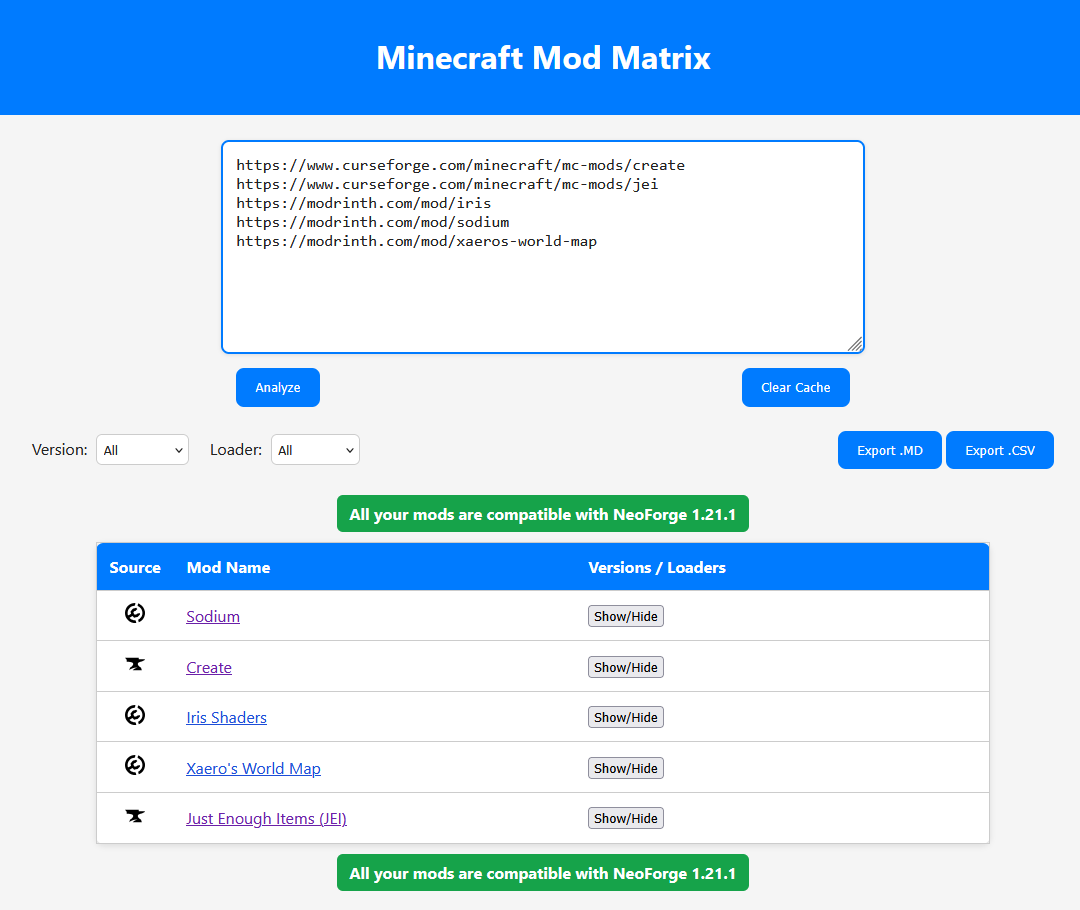
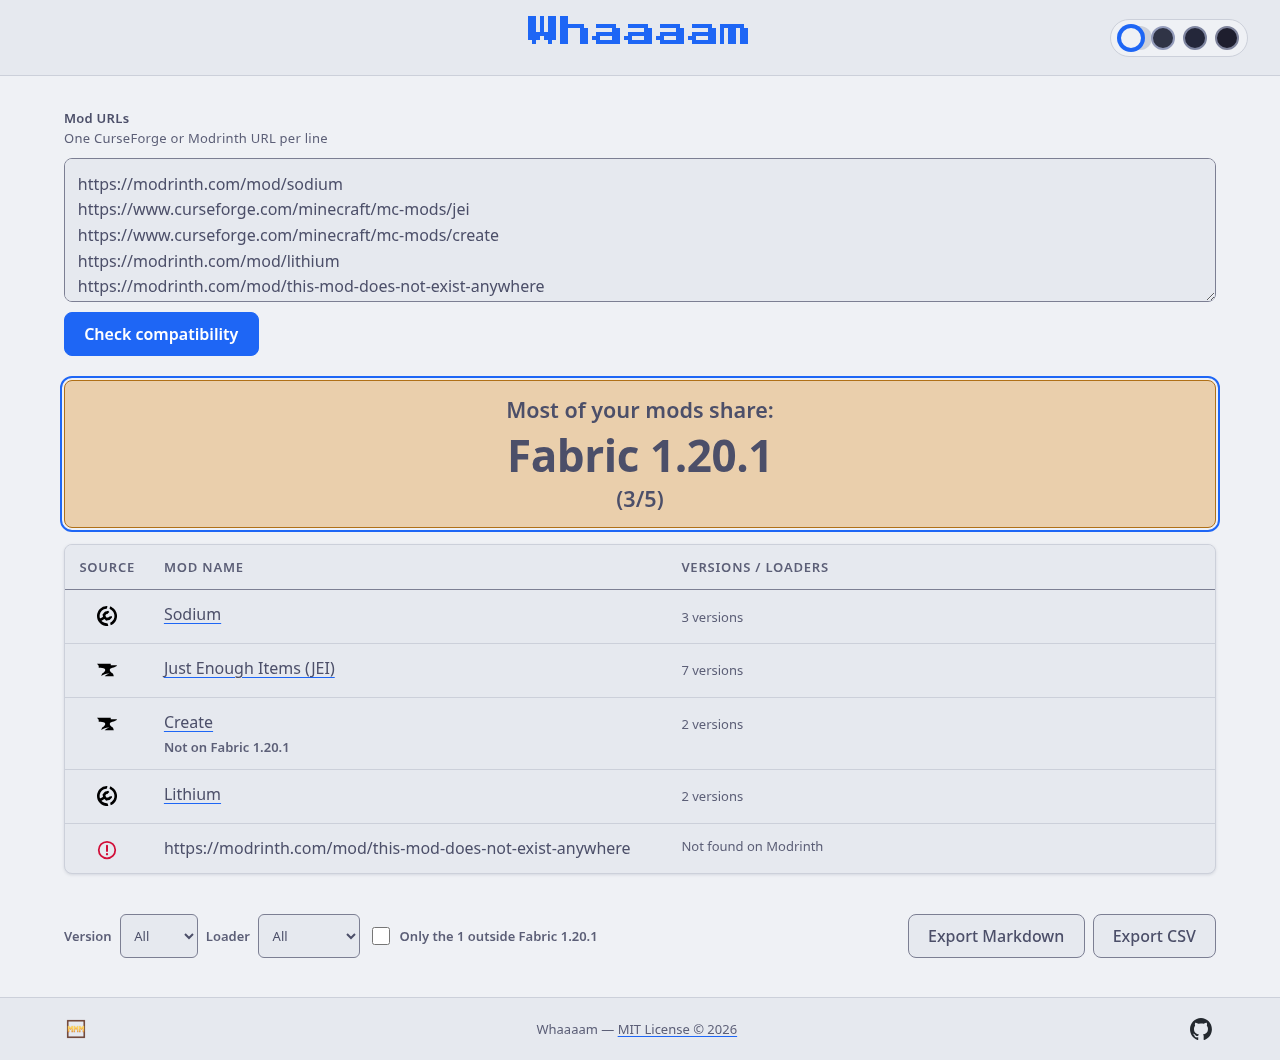
Made the Curseforge API key optional if only using Modrinth URLs

diff --git a/test_web.py b/test_web.py
@@ -14,10 +14,6 @@ import shutil
 import tempfile
 import time
 
-# curseforge.py reads CF_API_KEY at import time and raises without one. A dummy
-# is enough: no request is ever made.
-os.environ.setdefault("CF_API_KEY", "test-key-not-used")
-
 import modlist
 import providers
 import providers.http
@@ -195,6 +191,32 @@ def check_error_copy():
     print("error copy: internal detail logged not returned, provider copy preserved")
 
 
+def check_optional_api_key():
+    """CF_API_KEY is only needed to check a CurseForge mod. Without it the app
+    still imports, a Modrinth-only list still works, and a CurseForge URL comes
+    back as a row saying why rather than taking the whole app down."""
+    import subprocess
+    import sys
+    # Empty, not absent: python-dotenv never overrides a variable that is already
+    # set, so a developer's .env cannot slip a real key into the child.
+    env = dict(os.environ, CF_API_KEY="",
+               PYTHONPATH=os.path.dirname(os.path.abspath(__file__)))
+    started = subprocess.run([sys.executable, "-c", "import web"],
+                             env=env, cwd=tempfile.gettempdir(), capture_output=True, text=True)
+    assert started.returncode == 0, f"app did not start without a key:\n{started.stderr}"
+
+    saved = os.environ.pop("CF_API_KEY", None)
+    try:
+        row = modlist.fetch_mod_info("https://www.curseforge.com/minecraft/mc-mods/jei")
+    finally:
+        if saved is not None:
+            os.environ["CF_API_KEY"] = saved
+    # _no_network would surface as the generic sentence; this proves the
+    # missing key was caught before any request was attempted.
+    assert "no CurseForge API key" in row["error"], row
+    print("api key: optional at startup, required only for a CurseForge mod")
+
+
 def check_slug_validation():
     """A slug that is not a slug never reaches the URL builder."""
     from providers.modrinth import slug_from_url
@@ -316,6 +338,7 @@ if __name__ == "__main__":
     check_host_allowlist()
     check_canonical_url()
     check_error_copy()
+    check_optional_api_key()
     check_slug_validation()
     check_routes_and_headers()
     check_deadline()

diff --git a/providers/curseforge.py b/providers/curseforge.py
@@ -16,15 +16,23 @@ API_BASE = "https://api.curseforge.com/v1"
 GAME_ID = 432
 CACHE_TTL = timedelta(hours=24)
 
-API_KEY = os.getenv("CF_API_KEY")
-if not API_KEY:
-    raise EnvironmentError("Missing CF_API_KEY in environment")
-
-HEADERS = {"Accept": "application/json", "x-api-key": API_KEY}
+# Read per request, not at import: a Modrinth-only list must work on a server
+# with no CurseForge key. It used to raise EnvironmentError here and the whole
+# app refused to start.
+NO_KEY = ("This server has no CurseForge API key (CF_API_KEY), so CurseForge mods "
+          "cannot be checked; Modrinth links still work")
 
 
 def safe_request(url, params=None, retries=3, delay=1, timeout=10):
-    return http_request("CurseForge", url, headers=HEADERS, params=params,
+    # Every CurseForge call goes through here, so this is the one place the key
+    # is required. ProviderError: the row says why, and nothing is sent upstream.
+    # That holds because get_mod_data's search is uncached and runs first; put a
+    # cache in front of it and keyless checks would half-succeed from disk.
+    key = (os.getenv("CF_API_KEY") or "").strip()
+    if not key:
+        raise ProviderError(NO_KEY)
+    headers = {"Accept": "application/json", "x-api-key": key}
+    return http_request("CurseForge", url, headers=headers, params=params,
                         retries=retries, delay=delay, timeout=timeout)
 
 

diff --git a/test_compat.py b/test_compat.py
@@ -247,11 +247,7 @@ def check_contrast():
 def check_curseforge_pairs():
     """A file we cannot attribute contributes nothing — it must never become
     a loader called "Unknown", which once shipped in the verdict."""
-    try:
-        from providers.curseforge import index_pairs, loaders_for_file
-    except Exception as exc:  # needs CF_API_KEY at import time
-        print(f"curseforge helpers: skipped ({type(exc).__name__})")
-        return
+    from providers.curseforge import index_pairs, loaders_for_file
 
     assert loaders_for_file({"gameVersions": ["1.20.1", "Fabric"]}) == {"Fabric"}
     assert loaders_for_file({"gameVersions": ["1.20.1", "NeoForge"]}) == {"NeoForge"}

diff --git a/README.md b/README.md
@@ -2,35 +2,33 @@
 
 **Whaaaam** tells you what Minecraft version and mod loader all your mods have in common.
 
-Paste your CurseForge and Modrinth mod URLs, and instantly see which Minecraft versions and loaders (Forge, Fabric, NeoForge, Quilt) are compatible across your entire mod list.
+Paste your CurseForge and Modrinth mod URLs, and see which Minecraft versions and loaders (Forge, Fabric, NeoForge, Quilt) your entire mod list agrees on — or, when it doesn't fully agree, what most of it shares and which mods fall outside.
 
+![Whaaaam checking a five-mod list, shown across the four themes](docs/screenshot_themes.png)
 
 ## Features
 
-- **Multi-Source Support** - Works with both CurseForge and Modrinth URLs
-- **Compatibility Analysis** - Instantly finds common versions/loaders across all mods
-- **Dual Interface** - Use via CLI or web browser
-- **Smart Filtering** - Filter results by Minecraft version or mod loader
+- **Multi-Source Support** - Works with both CurseForge and Modrinth URLs, mixed freely
+- **Compatibility Analysis** - Finds the versions and loaders common to the whole list, or the largest consensus with a count (`8/10`)
+- **Nothing Silently Dropped** - A mod that could not be checked stays in the results with the reason, and still counts
+- **Dual Interface** - Use via CLI or web browser; both give the same answer in the same words
+- **Smart Filtering** - Filter results by Minecraft version or mod loader without changing the verdict
 - **Export Options** - Download your mod list as Markdown or CSV
-- **Beautiful Themes** - 4 Catppuccin themes (Latte, Frappé, Macchiato, Mocha) with smooth transitions
-- **Caching** - Fast repeated lookups with local cache
+- **Four Themes** - The Catppuccin palettes: Latte, Frappé, Macchiato, Mocha
+- **Caching** - Version data is cached on disk for 24 hours, so a re-check is fast
 
 ## Quick Start
 
 ### Prerequisites
 
-- Curl and Git
+- Git
+- Python 3.10 or newer, with `venv` and `pip`
 
 ```bash
-apt install -y git curl
+apt install -y git python3 python3-venv python3-pip
 ```
 
-- Python 3.8+
-- pip
-
-```bash
-apt install -y python3 python3-venv python3-pip build-essential
-```
+- A CurseForge API key, if you check CurseForge mods — request one at [console.curseforge.com](https://console.curseforge.com/). Modrinth needs none.
 
 ### Installation
 
@@ -39,12 +37,20 @@ apt install -y python3 python3-venv python3-pip build-essential
 git clone https://github.com/Lord-ZuzurNC/Whaaaam.git
 cd Whaaaam
 
-# Install Python dependencies
+# Create a virtual environment and install the dependencies
+python3 -m venv .venv
+source .venv/bin/activate
 pip install --upgrade pip
 pip install -r requirements.txt
+
+# Give it your CurseForge API key (skip this for Modrinth-only lists)
+echo "CF_API_KEY=your-key-here" > .env
 ```
 
-There is no frontend build step — `static/styles.css` is served as authored.
+Without a key the app still runs: Modrinth mods check normally and each
+CurseForge URL is listed as could not be checked, with the reason — see
+[Configuration](#configuration). There is no frontend build step:
+`static/styles.css` is served as authored.
 
 ### Usage
 
@@ -54,39 +60,11 @@ There is no frontend build step — `static/styles.css` is served as authored.
 python web.py
 ```
 
-Open your browser to `http://localhost:5000`, paste your mod URLs (one per line), and click **Check compatibility**.
+Open your browser to `http://localhost:5000`, paste your mod URLs (one per line), and click **Check compatibility**. The verdict appears first; the per-mod table, filters and exports sit underneath it.
 
 `web.py` binds `127.0.0.1` and starts Flask's development server. Set `HOST` and
 `PORT` to move it, but do not expose that server directly — it has no
 request-size or slow-client protection of its own.
-
-#### Deployment
-
-Every check spends your `CF_API_KEY`, so a reachable instance needs a limit in
-front of it. Run under a real WSGI server:
-
-```bash
-gunicorn -w 4 --threads 8 -b 127.0.0.1:5000 --timeout 60 web:app
-```
-
-`--threads` matters: a check is long and I/O-bound, and with the default sync
-worker one slow request occupies a whole worker. With four sync workers, four
-requests were enough to make the service unavailable to everyone else.
-
-Rate-limiting belongs at the reverse proxy, which is the only place that sees
-every worker's traffic. A working configuration is committed at
-[`deploy/nginx.conf`](deploy/nginx.conf) — it is a file rather than a snippet in
-this README because a limit described in prose enforces nothing.
-
-The app bounds a single request on its own: 256 KB of body, 200 URLs, and a 45
-second deadline after which unfinished mods come back as rows saying so. Those
-are per-request; only the proxy can cap requests per caller. Keep the proxy's
-`proxy_read_timeout` above the app's deadline so the app returns its own partial
-answer instead of the proxy cutting the connection.
-
-The response cache is capped at 256 MB (`CACHE_MAX_BYTES`) and evicts
-oldest-first, but give `cache/` a bounded volume anyway so a full disk cannot
-take the host down with it.
 
 #### Command Line
 
@@ -106,20 +84,28 @@ python main.py
 
 | Option             | What it does                                       |
 | ------------------ | -------------------------------------------------- |
+| `-f`, `--file`     | read URLs from a file, one per line                |
 | `--version 1.20.1` | only show table rows for that Minecraft version    |
 | `--loader fabric`  | only show table rows for that loader               |
 | `--show-versions`  | list every version instead of a count              |
 | `--export md\|csv` | write the results to a file (`--out -` for stdout) |
 | `--clear-cache`    | delete the cached version data and exit            |
 
-Filters narrow the table; they never change the verdict above it. Exit status is
-`0` when a shared version exists, `2` when none does, `1` when no URLs were given
-— so it composes into scripts.
+Filters narrow the table; they never change the verdict above it. Exit status, so
+it composes into scripts:
+
+| Status | Meaning                                                              |
+| ------ | -------------------------------------------------------------------- |
+| `0`    | the list shares a version (fully, or as a majority consensus)        |
+| `1`    | no URLs were given, or some mods were not fetched before the deadline |
+| `2`    | the list shares no version, or nothing could be checked              |
+
+Set `NO_COLOR` to turn off the coloured verdict.
 
 ## How It Works
 
 1. **Paste URLs** - Add CurseForge or Modrinth mod page URLs
-2. **Check** - Whaaaam fetches version data from each platform's API in parallel
+2. **Check** - Whaaaam fetches version data from each platform's API, eight mods at a time
 3. **Compare** - All mod versions are cross-referenced to find common compatibility
 4. **Results** - See which Minecraft versions and loaders work with ALL your mods.
    Mods that could not be fetched are listed with the reason and still counted, so
@@ -144,18 +130,64 @@ Most of your mods share: Fabric 1.20.1 (8/10)
 | CurseForge | `https://www.curseforge.com/minecraft/mc-mods/mod-name` |
 | Modrinth   | `https://modrinth.com/mod/mod-name`                     |
 
+Anything else is reported as "Not a CurseForge or Modrinth link" rather than fetched.
+
+## Deployment
+
+Every CurseForge mod checked spends your `CF_API_KEY`, and every check spends
+server time and upstream requests, so a reachable instance needs a limit in
+front of it. Run under a real WSGI server:
+
+```bash
+gunicorn -w 4 --threads 8 -b 127.0.0.1:5000 --timeout 60 web:app
+```
+
+`--threads` matters: a check is long and I/O-bound, and with the default sync
+worker one slow request occupies a whole worker. With four sync workers, four
+requests were enough to make the service unavailable to everyone else.
+
+Rate-limiting belongs at the reverse proxy, which is the only place that sees
+every worker's traffic. A working configuration is committed at
+[`deploy/nginx.conf`](deploy/nginx.conf) — it is a file rather than a snippet in
+this README because a limit described in prose enforces nothing. Set its
+`server_name` and point your ACME client at it for the TLS certificate.
+
+As committed, it allows each client address 10 checks a minute with a burst of
+5 and 8 open connections; loading the page itself is not limited. A client over
+the limit gets HTTP 429, which the page words as "Too many checks from your
+connection. Wait a moment, then check again." Tune `rate` in the file to taste.
+Without that proxy — running `web.py` or gunicorn directly — there is no
+per-caller limit at all.
+
+The app bounds a single request on its own: 256 KB of body, 200 URLs, and a 45
+second deadline after which unfinished mods come back as rows saying so. Those
+are per-request; only the proxy can cap requests per caller. Keep the proxy's
+`proxy_read_timeout` above the app's deadline so the app returns its own partial
+answer instead of the proxy cutting the connection.
+
+The response cache lives in `cache/` next to the code, is capped at 256 MB
+(`CACHE_MAX_BYTES`) and evicts oldest-first. Give it a bounded volume anyway so a
+full disk cannot take the host down with it. Clearing it is an operator action —
+the web page deliberately has no button for it, since any visitor could wipe it:
+
+```bash
+python main.py --clear-cache
+```
+
 ## Theme System
 
-Whaaaam features 4 beautiful Catppuccin color themes that you can switch between seamlessly:
+Whaaaam ships the four Catppuccin palettes; the switcher sits in the page header.
 
-- **Latte** - Light theme with warm, cozy colors
-- **Frappé** - Cool dark theme with subtle purple tones
-- **Macchiato** - Darker theme with rich, saturated colors
-- **Mocha** - Deep dark theme, perfect for late-night sessions (default)
+- **Latte** - Light theme
+- **Frappé** - Muted dark theme
+- **Macchiato** - Darker theme
+- **Mocha** - Deepest dark theme (default)
 
-![Theme Switcher](docs/screenshot_themes.png)
+| Latte                                                  | Mocha                                                |
+| ------------------------------------------------------ | ---------------------------------------------------- |
+| ![Whaaaam in the Latte theme](docs/screenshot_light.png) | ![Whaaaam in the Mocha theme](docs/screenshot_dark.png) |
 
-Themes are automatically saved to your browser and can be shared via URL (e.g., `?theme=latte`).
+Your choice is saved in the browser and can be shared via URL (e.g., `?theme=latte`).
 
 ### For Developers
 
@@ -171,15 +203,34 @@ To customize or extend themes, see the [Development](#development) section below
 
 ### Environment Variables
 
-| Variable     | Description                   | Default |
-| ------------ | ----------------------------- | ------- |
-| `CF_API_KEY` | CurseForge API key (required) | None    |
+| Variable     | Description                                  | Default     |
+| ------------ | -------------------------------------------- | ----------- |
+| `CF_API_KEY` | CurseForge API key, for CurseForge mods only  | None        |
+| `HOST`       | address `python web.py` binds to             | `127.0.0.1` |
+| `PORT`       | port `python web.py` listens on              | `5000`      |
+| `NO_COLOR`   | any value turns off the CLI's coloured output | unset       |
 
-`CF_API_KEY` is checked when `providers/curseforge.py` is imported, so the app
-will not start without it — including for a Modrinth-only mod list. Set it in your
-environment or in a `.env` file.
+`CF_API_KEY` is read only when a CurseForge mod is checked, never at startup.
+Without it, a Modrinth-only list works normally and each CurseForge URL comes
+back as a row reading "This server has no CurseForge API key (CF_API_KEY), so
+CurseForge mods cannot be checked; Modrinth links still work" — counted in the verdict like any other mod
+that could not be checked, and no request is sent to CurseForge. Set it in your
+environment or in a `.env` file. `.env` is git-ignored; keep it that way.
 
 ## Development
+
+### Tests
+
+Run both before committing. Neither makes a network request, and neither needs a
+real API key.
+
+```bash
+python test_compat.py   # verdict logic, and CLI/web parity: runs static/app.js under Node
+python test_web.py      # the HTTP edge: input limits, host matching, error copy, headers, cache
+```
+
+`test_compat.py` needs `node` on your `PATH` for its parity half. CI runs both on
+Python 3.10, 3.12 and 3.13.
 
 ### Frontend
 
@@ -200,14 +251,16 @@ documented in [DESIGN.md](DESIGN.md).
 - A Mocha-valued `:root` fallback sits **above** the theme blocks, because
   `:root` and `[data-theme="x"]` share specificity and source order decides
 
-**JavaScript** (`static/app.js`):
-- `ThemeManager` module with IIFE pattern for encapsulation
-- Public API: `setTheme(name)`, `getTheme()`, `initTheme()`
-- Handles localStorage persistence and URL parameter sync
+**JavaScript**:
+- `static/theme-init.js` runs in `<head>` and sets the theme before first paint,
+  so a Latte user never sees a dark flash
+- `static/app.js` holds the `ThemeManager` module, with the public API
+  `setTheme(name)`, `getTheme()`, `initTheme()`
+- It handles localStorage persistence and URL parameter sync
 - Priority: URL param > localStorage > default ("mocha")
 
 **HTML** (`templates/index.html`):
-- Theme attribute on `<html data-theme="mocha">` — the only theme signal
+- Theme attribute on `<html data-theme="...">` — the only theme signal
 - Circular theme switcher as an ARIA `radiogroup` with roving tabindex
 - Keyboard navigation: arrow keys, Home and End
 

diff --git a/PRODUCT.md b/PRODUCT.md
@@ -26,7 +26,7 @@ Whaaaam takes a pasted list of CurseForge and Modrinth mod URLs and returns the 
 - Two interfaces ship today: web (`python web.py`, Flask, `localhost:5000`) and CLI (`python main.py`, tabulated output).
 - Version data is fetched per mod from each platform's API — 8 in parallel on the web path — and cached on disk for 24h under `cache/{provider}/{slug}_{id}/`. Clearing it is an operator action, `python main.py --clear-cache`; the web UI has no clear action, since it would let any visitor wipe the shared cache.
 - Results are filterable by MC version and by loader, and exportable as Markdown or CSV. Export is how a checked list leaves the tool and enters a server's own notes or install process.
-- `CF_API_KEY` is **required**, resolved by observation: `providers/curseforge.py` raises `EnvironmentError` at import time, so the app will not start without it — not even for a Modrinth-only list. README and CLAUDE.md now both say so.
+- `CF_API_KEY` is **needed only to check CurseForge mods** (decided by the user). Without it the app starts and Modrinth-only lists work; each CurseForge URL is reported as a mod that could not be checked, with the reason, and still counts toward the verdict.
 
 ## Capabilities and Constraints
 
